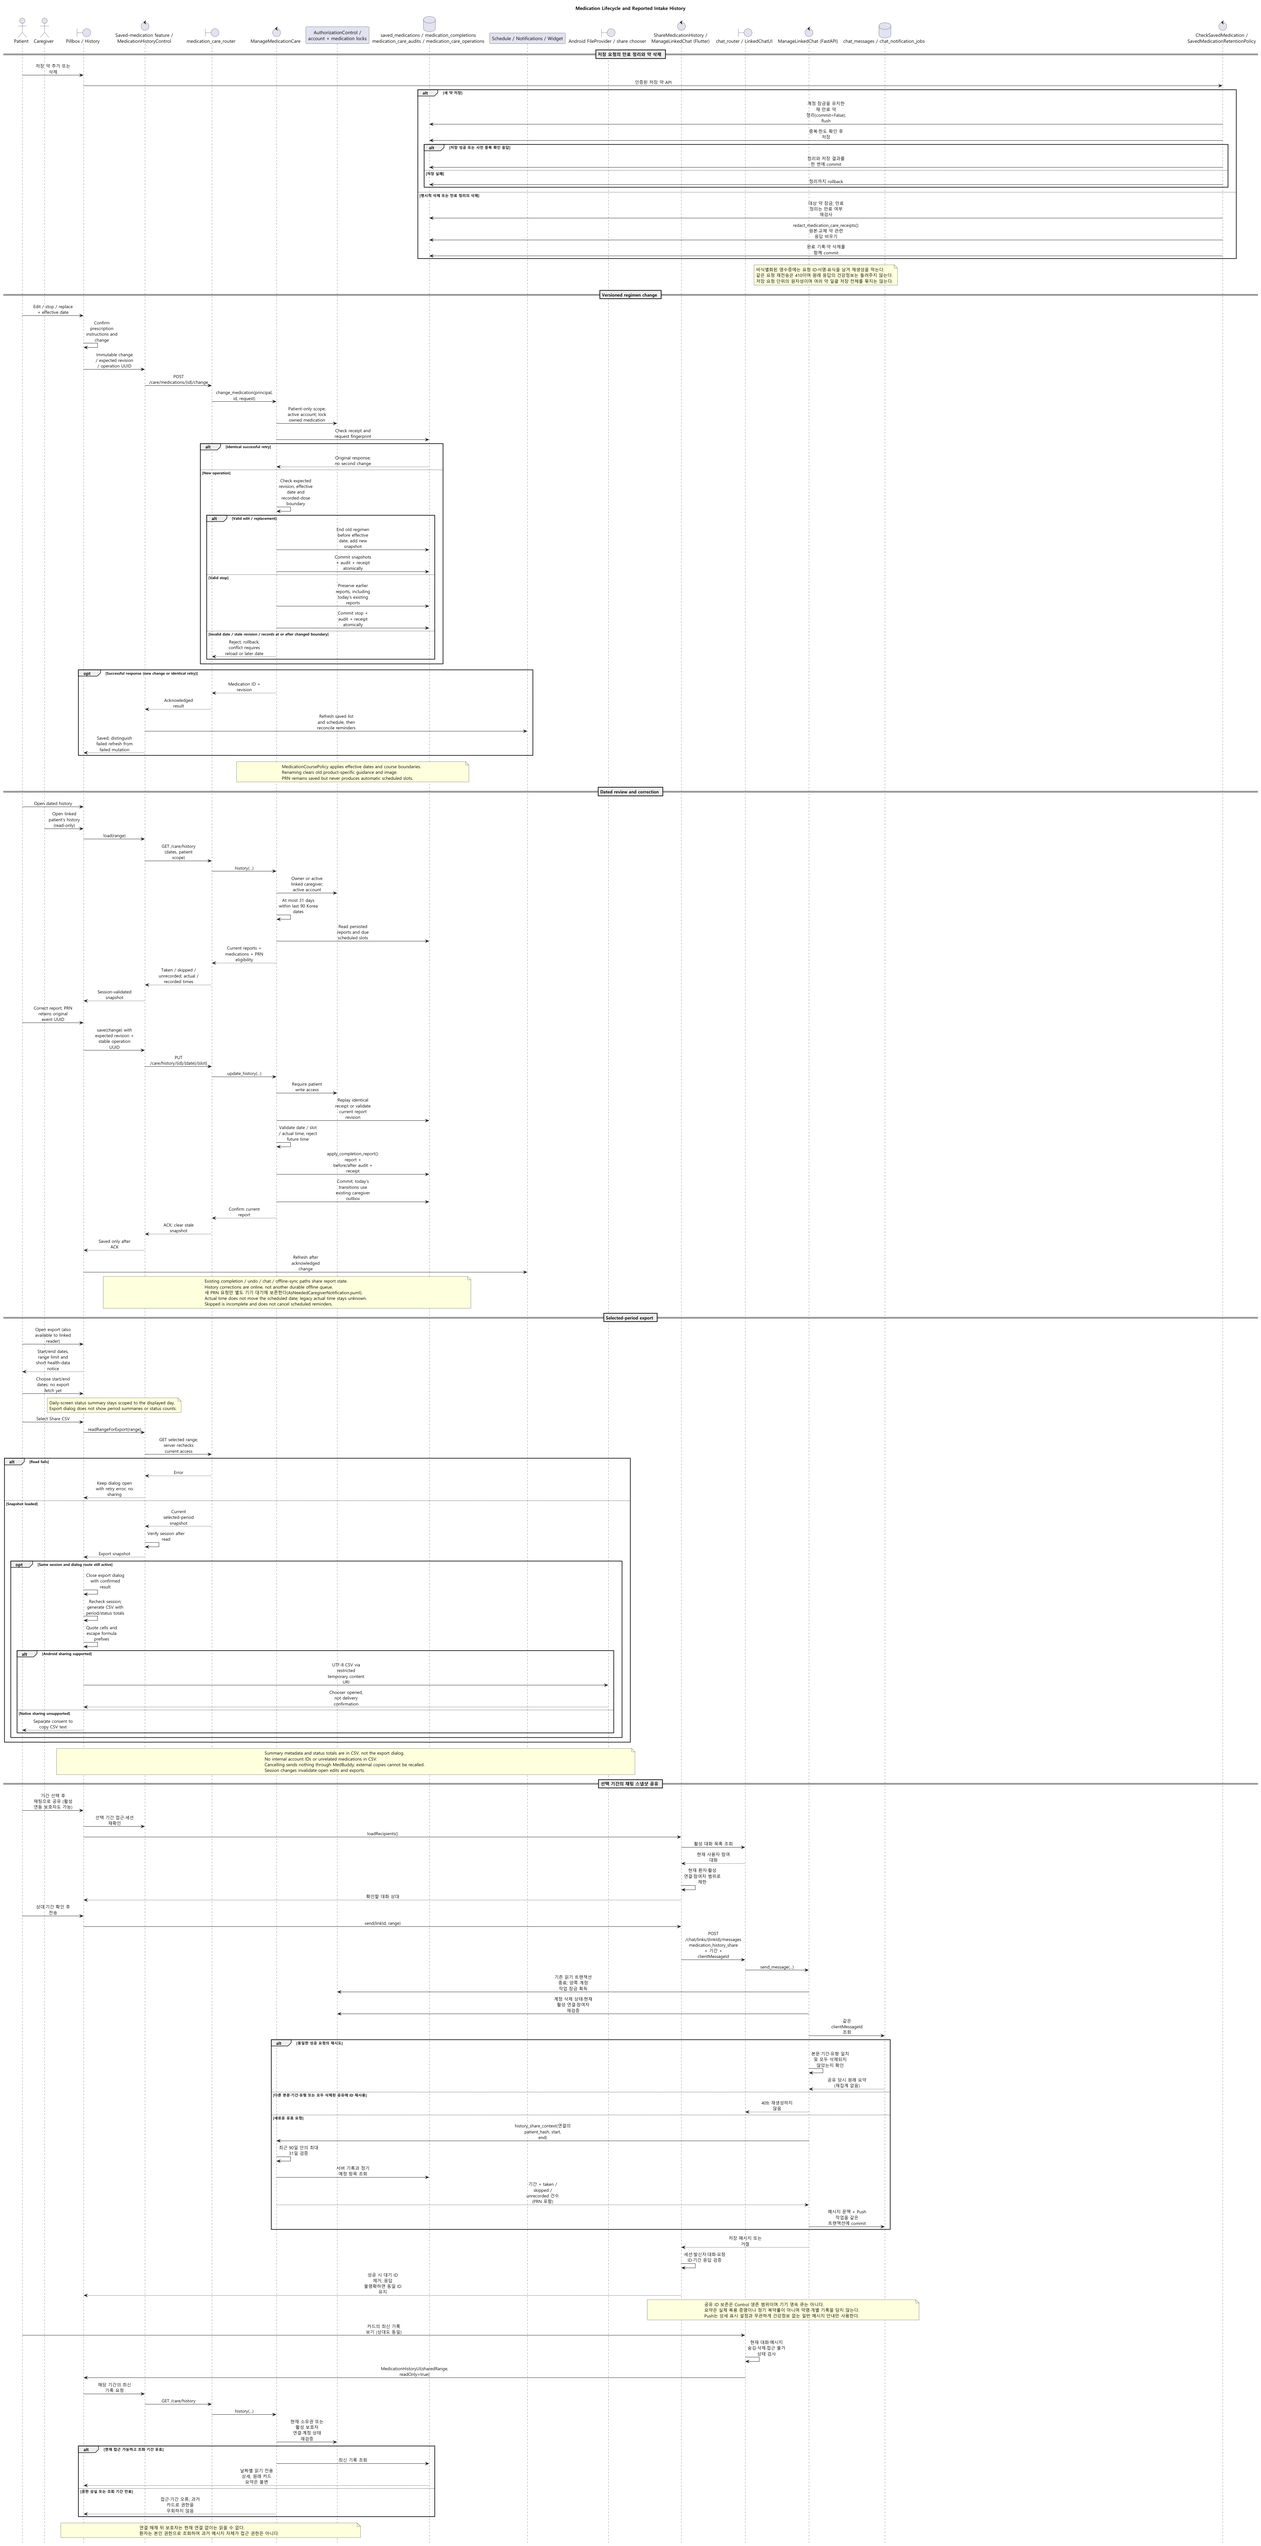
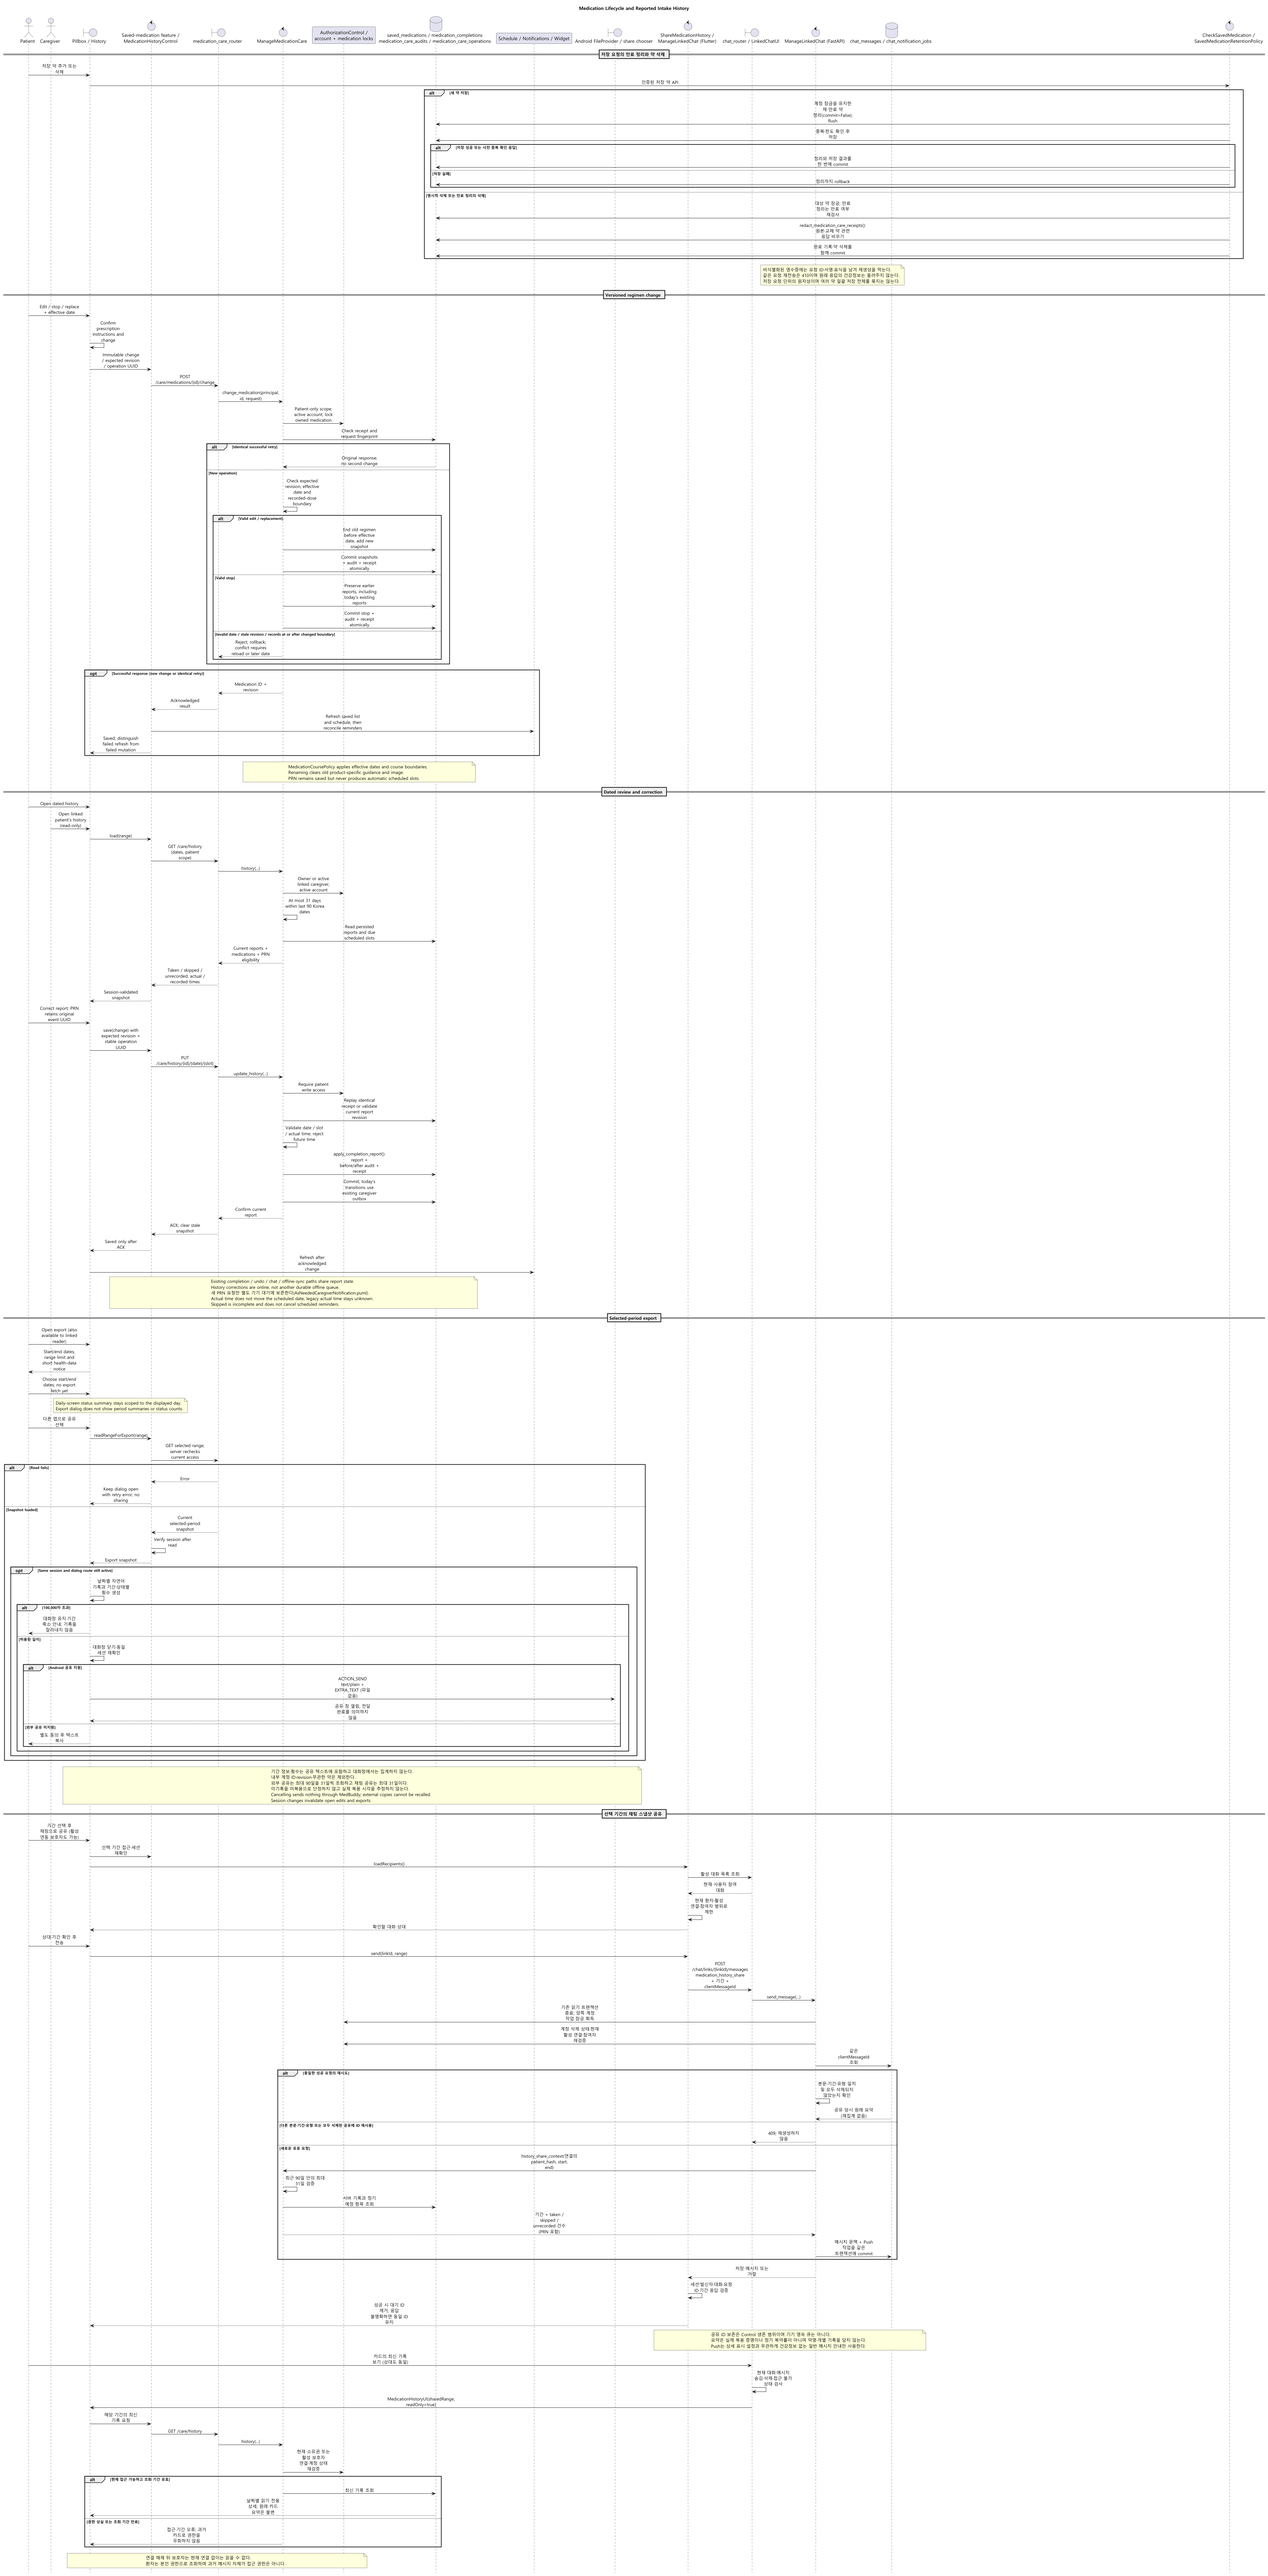
docs(history): describe readable external sharing and refresh related UML

diff --git a/docs/Medication Care and History.md b/docs/Medication Care and History.md
@@ -168,32 +168,33 @@ counts. Changing these dates does not fetch export records or change the day
 being reviewed.
 
 From the month view the initial export period is that visible month within the
-allowed history window. CSV covers up to 90 days, fetched in parts of at most
-31 days; linked-chat sharing remains limited to 31 days. CSV omits internal
-revision fields. The general history lookup limit remains 31 days per request.
+allowed history window. External text sharing covers up to 90 days, fetched in
+parts of at most 31 days; linked-chat sharing remains limited to 31 days. Internal
+revision fields are not shared. The general lookup limit remains 31 days per request.
 
 Feature search opens personal history and, for the sharing destination, only
 opens this dialog after the initial read succeeds in the same session. It does
 not transmit a file or chat message. Read-only or failed initial entry does not
 automatically open the dialog. See [Feature Search](Feature%20Search.md).
 
-Selecting Share CSV triggers `readRangeForExport` to fetch the selected period
+Selecting Share via other apps triggers `readRangeForExport` to fetch the selected period
 with current access and session checks. A failed read leaves the dialog open for
 retry. Only a successful read with the same session and active dialog closes it;
-the screen rechecks the session before generating CSV and invoking native sharing.
-The CSV itself includes the selected-period metadata and status counts, followed
-by self-reported records and details of medications represented in that period,
-but not unrelated medications or internal account identifiers. Cancelling before
-sharing sends nothing through MedBuddy. Opening the Android chooser is not
-evidence that another app delivered the file.
+the screen rechecks the session before generating text and invoking native sharing.
+The message includes the period and counts, then date-grouped medication names,
+dose slots, statuses, entered taken times and skip reasons. It excludes internal
+identifiers, revision values, unrelated stored medications and redundant table
+headers. An empty period is stated explicitly. Missing taken times are not replaced
+with recorded times, and unrecorded status is not interpreted as a missed dose.
+Cancelling before sharing sends nothing through MedBuddy. Opening the Android
+chooser is not evidence that another app delivered the message.
 
-CSV is UTF-8 with a BOM; cells are quoted and spreadsheet-formula prefixes are
-escaped. Android shares a temporary content URI through a non-exported
-FileProvider limited to the medication-export cache directory. Older cache files
-are cleaned on later exports;
-account deletion also attempts cleanup. Copies saved by another app cannot be
-recalled. Unsupported platforms offer CSV-text copying after separate consent;
-the app does not claim that a file was saved or shared.
+Android uses ACTION_SEND with text/plain and EXTRA_TEXT, without a CSV attachment.
+Messages over 100,000 characters remain in the selection dialog with a request to
+shorten the period; records are never silently truncated. Unsupported platforms
+offer text copying after separate consent. Copies saved by another app cannot be
+recalled. Legacy CSV helpers and cache cleanup remain for compatibility, but the
+history screen no longer selects CSV sharing.
 
 The same dialog can share a server-calculated period/status-count summary into
 an active linked chat after target confirmation. It sends no medication list or

diff --git a/docs/Feature Search.md b/docs/Feature Search.md
@@ -57,7 +57,7 @@ DB 구조는 추가하지 않는다. 검색 자체는 네트워크 없이 가능
   연동 확인을 기다리는 사이 다른 탭이나 화면으로 옮겼다면 그 위에 열지 않는다.
   가족 채팅도 확인된 활성 연동이 없으면 연결 관리로 안내한다.
 - 기록 공유 검색은 최초 조회 성공 후 기존 기간·대상 확인창만 연다. 실제
-  CSV 전달 또는 채팅 전송은 사용자의 별도 선택과 기존 검증을 거친다.
+  다른 앱으로 텍스트 공유 또는 채팅 전송은 사용자의 별도 선택과 기존 검증을 거친다.
 - 계정 삭제, 약 삭제, 복용 체크, 알림 켜기 등의 표현도 해당 화면을 찾을 뿐,
   검색이나 결과 선택만으로 데이터 변경·삭제·전송을 실행하지 않는다.
 - 플랫폼에서 지원하지 않는 복약 위젯은 결과와 목록에서 제외한다.
